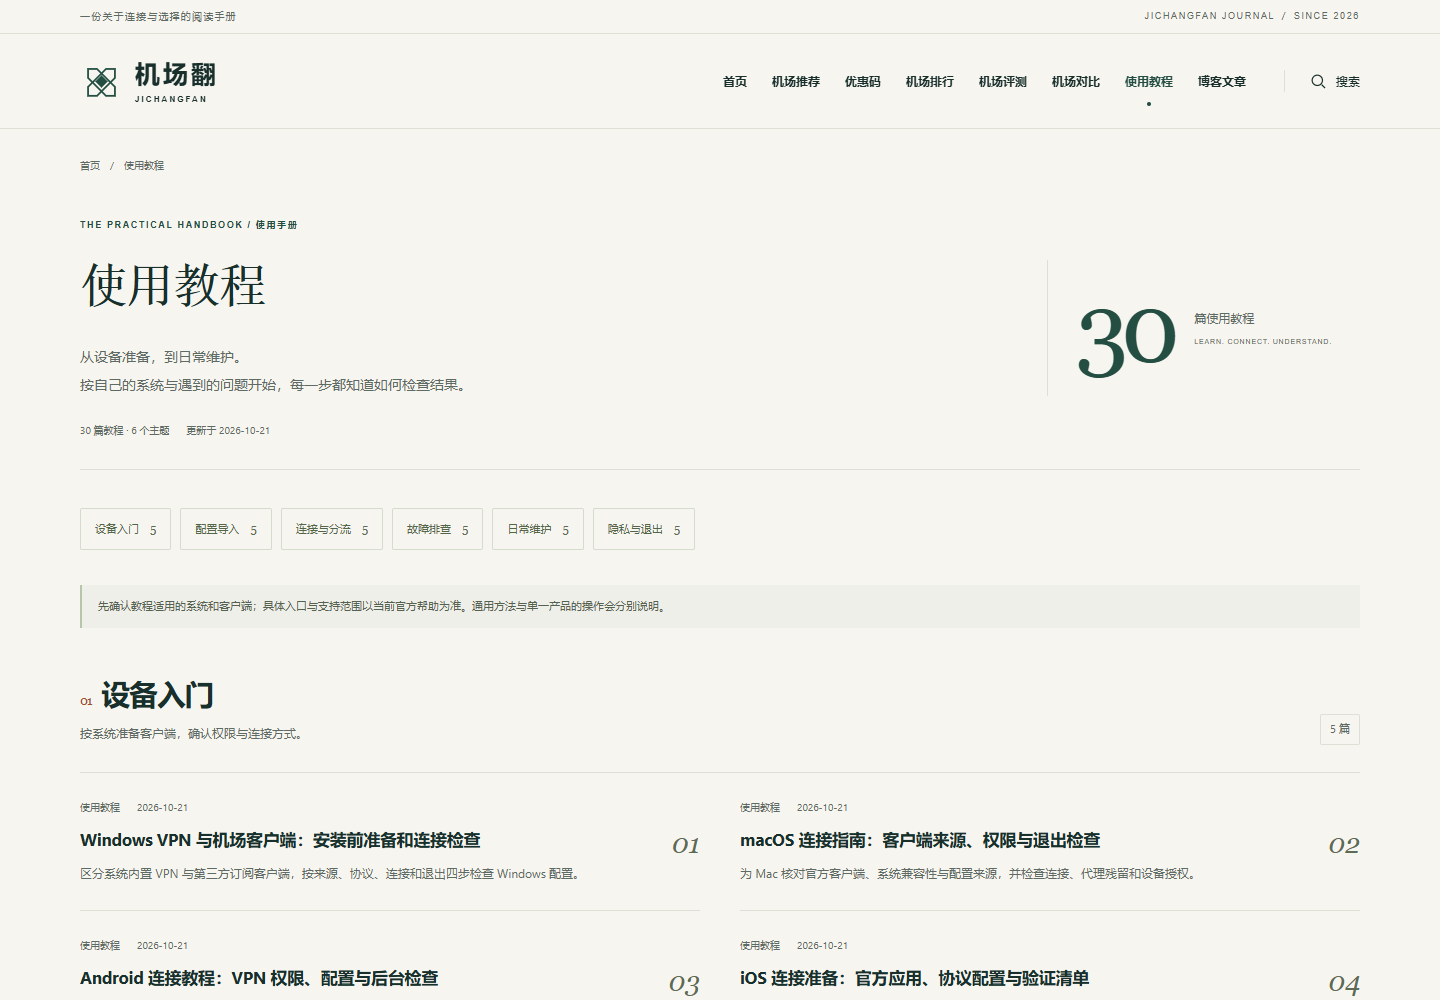
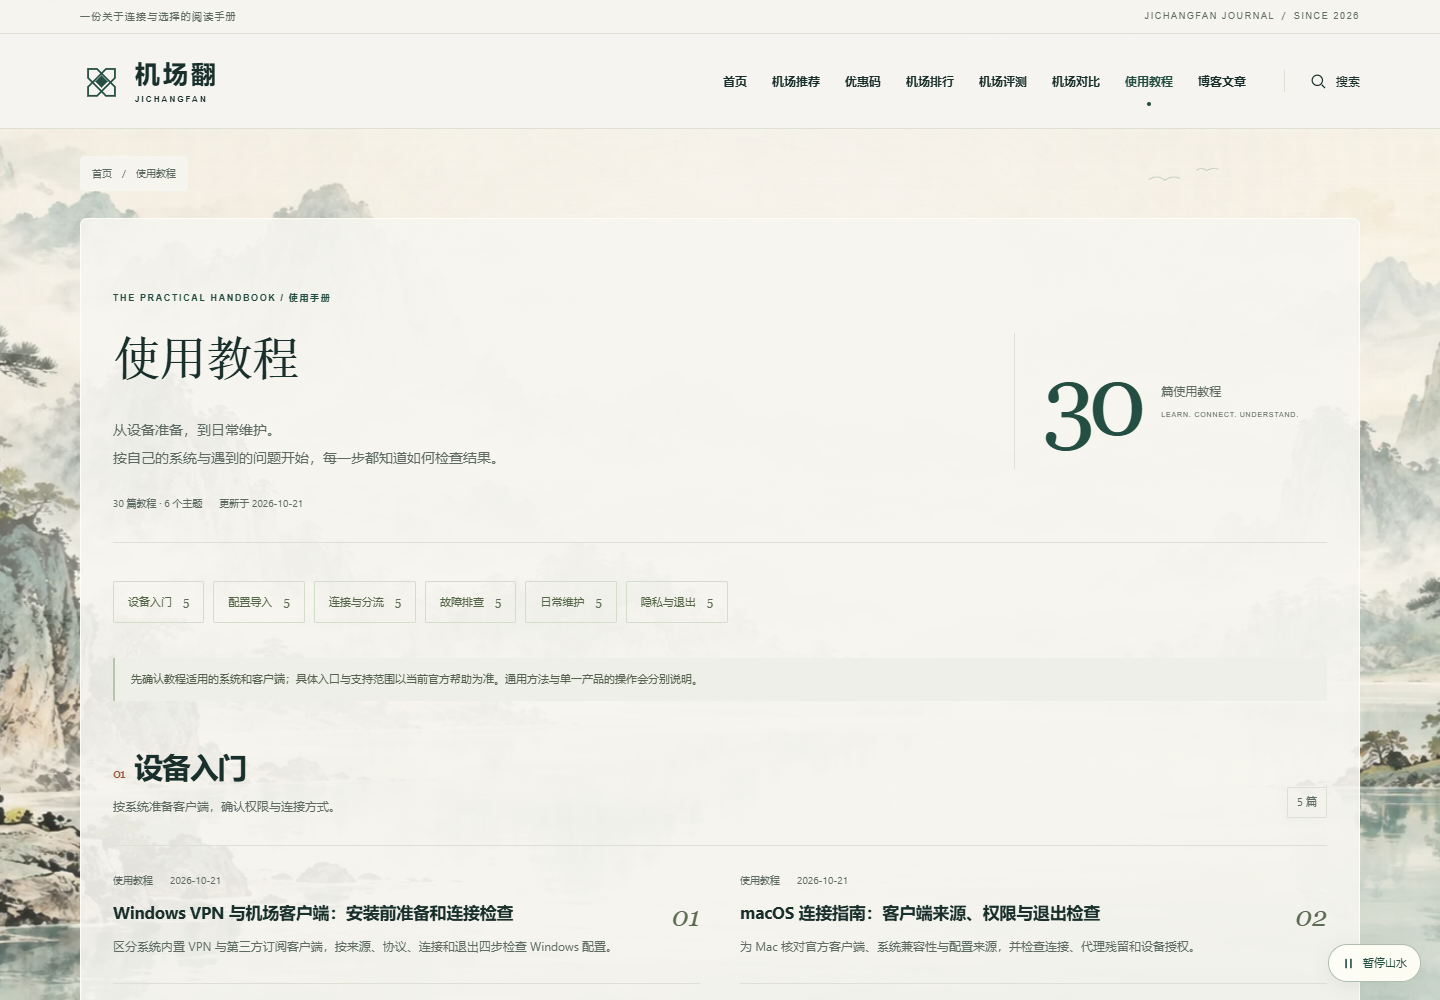
Add animated ink landscape background with motion controls

diff --git a/docs/final-audit.md b/docs/final-audit.md
@@ -1,35 +1,31 @@
-# 机场翻验收：专题、关键词入口与内容优化
+# 机场翻验收：动态水墨山水背景
 
-日期：2026-10-21。部署由用户负责，本轮只制作本地网站与文件。
+日期：2026-10-21。整站背景更新，部署由用户负责。
 
 ## 已完成
 
-首页增加四项选择判断；十个专题各有问题说明、四行判断表和三条阅读路径。240篇内容增加问题对应入口，200篇分组博客增加主题面包屑；八个核心关键词的主要页面从首页正文均可在0–2次点击到达。
+使用内置image_gen生成原创青绿水墨山水，保留1672×941原画于design/shanshui-original.png。网页桌面图175918字节，手机图70478字节，本地提供，不依赖外部图片服务。原画只在源码和单独文件中提供，不增加部署包的原画负担。
 
-优惠页支持品牌、付款方式和已提供代码筛选，保留29个品牌、58档参考套餐和12个代码。搜索增加专题与工具，现为293条。三篇流量费用正文重写并同步独立200篇导出；关键词表229行同步实际标题与H1。
+背景含极缓画面推移、两层云雾、水纹与远处飞鸟。右下角提供暂停/播放按钮，选择保存在当前浏览器并跨页保留；系统减少动态偏好优先，页面隐藏时暂停。无JavaScript时背景保持静止。正文和首页文案增加浅色阅读底层，保留原有内容与功能。
 
-## 本轮验证
+## 实际验证
 
-| 项目 | 实际结果 |
+| 项目 | 结果 |
 | --- | --- |
-| Astro检查 | 0错误、0警告；2个既有临时脚本导入提示 |
+| Astro检查 | 0错误、0警告；3个临时脚本未使用导入提示 |
 | 生产构建 | 355个HTML页面，343条本地可索引URL |
-| npm test | 全部通过：内容、SEO、链接、品牌、教程、专题路径与12项核心测试 |
-| 内链 | 18556个内部引用，354个正常页面从首页可达，无缺失目标或片段 |
-| 专题与文章结构 | 10个专题、240篇问题入口、200条分组面包屑覆盖通过 |
-| 整站浏览检查 | 354正常页面 × 1440/768/375px，共1062次访问，HTTP正常、无整页溢出 |
-| 代表页无障碍 | 整站浏览阶段16页Axe未检出违规 |
-| 最终修正复查 | 30教程与3篇重写文章 × 三尺寸，共99次访问；对应入口有效、无整页溢出，6页Axe无违规 |
-| 交互 | 比较工具、优惠复制、品牌筛选、付款口径、12代码筛选、空结果、跳转恢复、293条搜索、菜单与分页通过 |
-| 无JavaScript | 全部29品牌与58套餐、首页和完整比较表仍可读 |
-| 200篇专项 | 数量、来源、结构与近似文字检查通过；不构成语义原创或事实完整认证 |
+| npm test | 内容、SEO、内链、品牌、教程、专题与12项核心测试全部通过 |
+| 整站浏览 | 1062次访问，1440/768/375px，无整页横向溢出；正常页面HTTP200 |
+| 代表页无障碍 | 16个代表页面Axe未检出违规；山水控制另做专题页检查 |
+| 动态验证 | 水纹变换随时间变化；点击暂停后冻结；跨页记忆与重新播放正常 |
+| 手机图片与控制 | 使用mobile.webp，图片解码正常，暂停控制可用 |
+| 减少动态偏好 | 自动静止，控制说明与状态匹配 |
+| 无JavaScript | 山水静止、无无效按钮，正文可读 |
+| 视觉复核 | 桌面首页、专题与手机首页、文章截图检查 |
+| 内链 | 18911个内部引用检查通过，354个正常页面首页可达 |
 
-首次内链检查发现教程自身的分组标识与博客专题不同，已修正并加入回归测试。1062次整站浏览发生在最后三篇正文与教程对应修正前；最终构建另对这些33页完成99次复查，其他未改变页面沿用前一轮检查。最后只调整专题标题均衡换行，补充手机显示复核。
+当前仍为205篇博客、30篇教程、5篇百科。29推广品牌、58档参考套餐、12优惠码与5个原有资料品牌保留。本轮不改品牌价格和证据状态，没有网络实测、优惠验证、部署或搜索引擎提交。
 
-## 范围与限制
+本次未重跑Lighthouse，不给出没有测量的性能分数。图像字节数为实际文件大小，不代表真实访客加载时间。自动无障碍检查不替代全部人工可访问性评估。
 
-内容总数仍为205博客、30教程、5百科。没有将全库视为逐篇重写完成；没有购买账户、验证优惠折扣、执行全设备VPN操作、测速或解锁测试。品牌资料沿用原有来源和核验状态。没有重新运行Lighthouse或自动巡检全部外链。
-
-原始记录见audit/browser.json、audit/topic-final-browser.json、audit/topic-paths.json及对应专项。结构、内链和自动检查通过，不证明Bing已收录或已达首页。本轮未操作部署、DNS、Bing后台或实际IndexNow提交，源码仅在本地保存。
-
-上一版验收归档至history/content-calculator-final-audit.md。维护与依据见topic-optimization.md。
+生成方式、最终提示与文件路径见landscape-background.md。动态记录见audit/landscape.json；整站记录见audit/browser.json。上一版验收保存在history/topic-optimization-final-audit.md。源码仅在本地保存，交付ZIP同步更新。

diff --git a/docs/landscape-background.md b/docs/landscape-background.md
@@ -1,0 +1,29 @@
+# 动态山水背景制作说明
+
+更新日期：2026-10-21。制作方式：内置 image_gen 图像生成工具，生成一幅新原画；背景动态由网页动画实现。
+
+## 画面与动态
+
+原创水墨青绿山水，以暖白宣纸、青绿远山、松树和留白湖面搭配机场翻原有墨绿视觉。整站采用同一背景，正文区域增加浅色纸面以便阅读。
+
+动态包括极缓的画面推移、两层云雾漂移、湖面水纹明暗变化与远处飞鸟。右下角“暂停山水 / 播放山水”可控制动画，选择保存在当前浏览器；系统减少动态偏好优先，切到其他标签页时也会暂停。无JavaScript时展示静态山水，文章保持可读。
+
+## 文件
+
+- design/shanshui-original.png：生成原画，1672 × 941，约2.4MB，只随源码提供。
+- public/images/shanshui-background.webp：网页桌面图，175918字节。
+- public/images/shanshui-background-mobile.webp：1000像素宽手机图，70478字节。
+- src/components/LandscapeBackground.astro：装饰背景、动画、暂停按钮与偏好记忆。
+- 外层“动态山水背景原画.png”：便于单独保存的同一原画。
+- 外层“动态山水背景电脑预览.png”和“动态山水背景手机预览.png”：网站实际截图，截图本身是静态的；动态效果请查看本地网站。
+
+图片已复制进项目，网站不会依赖生成工具目录或外部图片服务。网页版本只做格式与尺寸压缩，没有改动画面内容。原有文章、品牌数据和网址保留，部署由用户负责。
+
+## 最终生成提示
+
+```text
+Use case: illustration-story. Asset type: original panoramic Chinese ink-and-wash landscape painting for a refined Chinese blog's animated background, landscape aspect ratio about 16:9, high detail. Create an elegant, genuinely painterly shan shui landscape on warm ivory xuan paper. Layered misty mountains in desaturated celadon, sage and deep forest-green ink, soft mineral pigment washes, fine dry-brush rock textures, graceful pine silhouettes close to the outer left and outer right edges, a serene pale jade lake across the lower half, delicate reflected mountain forms. Distant mountains dissolve into pale drifting-looking mist, generous warm off-white atmospheric space in the upper middle and central reading zone. The major mountains and trees are concentrated toward the lateral edges and lower third so website text in the central area remains readable. Sophisticated restrained composition with real ink diffusion and poetic quietness, luminous morning mist, nuanced traditional brushwork, beautiful nature, no people, no buildings, no calligraphy, no writing, no letters, no logos, no stamps, no watermark, no borders. This is the finished painting itself, not a website mockup. Single coherent landscape, not panels, not a diagram, not flat polygon vector art.
+```
+
+原始工具输出保留于 C:/Users/user/.codex/generated_images/01a15d3e-9ac6-7801-b210-40756f619b78/exec-50f94373-fcca-45a9-9e13-23b2eb4daccd.png；项目使用上面列出的本地副本。本轮未使用API或CLI回退方式。
+

diff --git a/docs/history/topic-optimization-final-audit.md b/docs/history/topic-optimization-final-audit.md
@@ -1,0 +1,35 @@
+# 机场翻验收：专题、关键词入口与内容优化
+
+日期：2026-10-21。部署由用户负责，本轮只制作本地网站与文件。
+
+## 已完成
+
+首页增加四项选择判断；十个专题各有问题说明、四行判断表和三条阅读路径。240篇内容增加问题对应入口，200篇分组博客增加主题面包屑；八个核心关键词的主要页面从首页正文均可在0–2次点击到达。
+
+优惠页支持品牌、付款方式和已提供代码筛选，保留29个品牌、58档参考套餐和12个代码。搜索增加专题与工具，现为293条。三篇流量费用正文重写并同步独立200篇导出；关键词表229行同步实际标题与H1。
+
+## 本轮验证
+
+| 项目 | 实际结果 |
+| --- | --- |
+| Astro检查 | 0错误、0警告；2个既有临时脚本导入提示 |
+| 生产构建 | 355个HTML页面，343条本地可索引URL |
+| npm test | 全部通过：内容、SEO、链接、品牌、教程、专题路径与12项核心测试 |
+| 内链 | 18556个内部引用，354个正常页面从首页可达，无缺失目标或片段 |
+| 专题与文章结构 | 10个专题、240篇问题入口、200条分组面包屑覆盖通过 |
+| 整站浏览检查 | 354正常页面 × 1440/768/375px，共1062次访问，HTTP正常、无整页溢出 |
+| 代表页无障碍 | 整站浏览阶段16页Axe未检出违规 |
+| 最终修正复查 | 30教程与3篇重写文章 × 三尺寸，共99次访问；对应入口有效、无整页溢出，6页Axe无违规 |
+| 交互 | 比较工具、优惠复制、品牌筛选、付款口径、12代码筛选、空结果、跳转恢复、293条搜索、菜单与分页通过 |
+| 无JavaScript | 全部29品牌与58套餐、首页和完整比较表仍可读 |
+| 200篇专项 | 数量、来源、结构与近似文字检查通过；不构成语义原创或事实完整认证 |
+
+首次内链检查发现教程自身的分组标识与博客专题不同，已修正并加入回归测试。1062次整站浏览发生在最后三篇正文与教程对应修正前；最终构建另对这些33页完成99次复查，其他未改变页面沿用前一轮检查。最后只调整专题标题均衡换行，补充手机显示复核。
+
+## 范围与限制
+
+内容总数仍为205博客、30教程、5百科。没有将全库视为逐篇重写完成；没有购买账户、验证优惠折扣、执行全设备VPN操作、测速或解锁测试。品牌资料沿用原有来源和核验状态。没有重新运行Lighthouse或自动巡检全部外链。
+
+原始记录见audit/browser.json、audit/topic-final-browser.json、audit/topic-paths.json及对应专项。结构、内链和自动检查通过，不证明Bing已收录或已达首页。本轮未操作部署、DNS、Bing后台或实际IndexNow提交，源码仅在本地保存。
+
+上一版验收归档至history/content-calculator-final-audit.md。维护与依据见topic-optimization.md。
